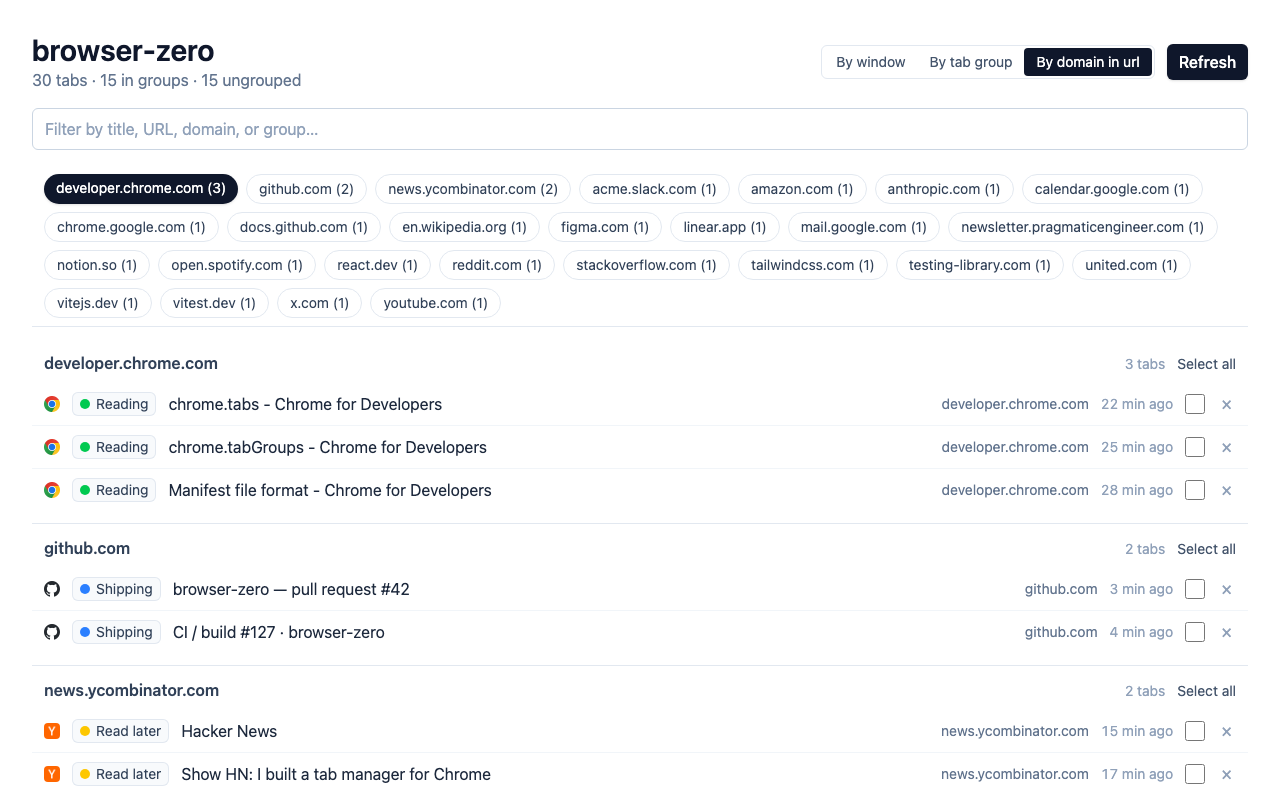
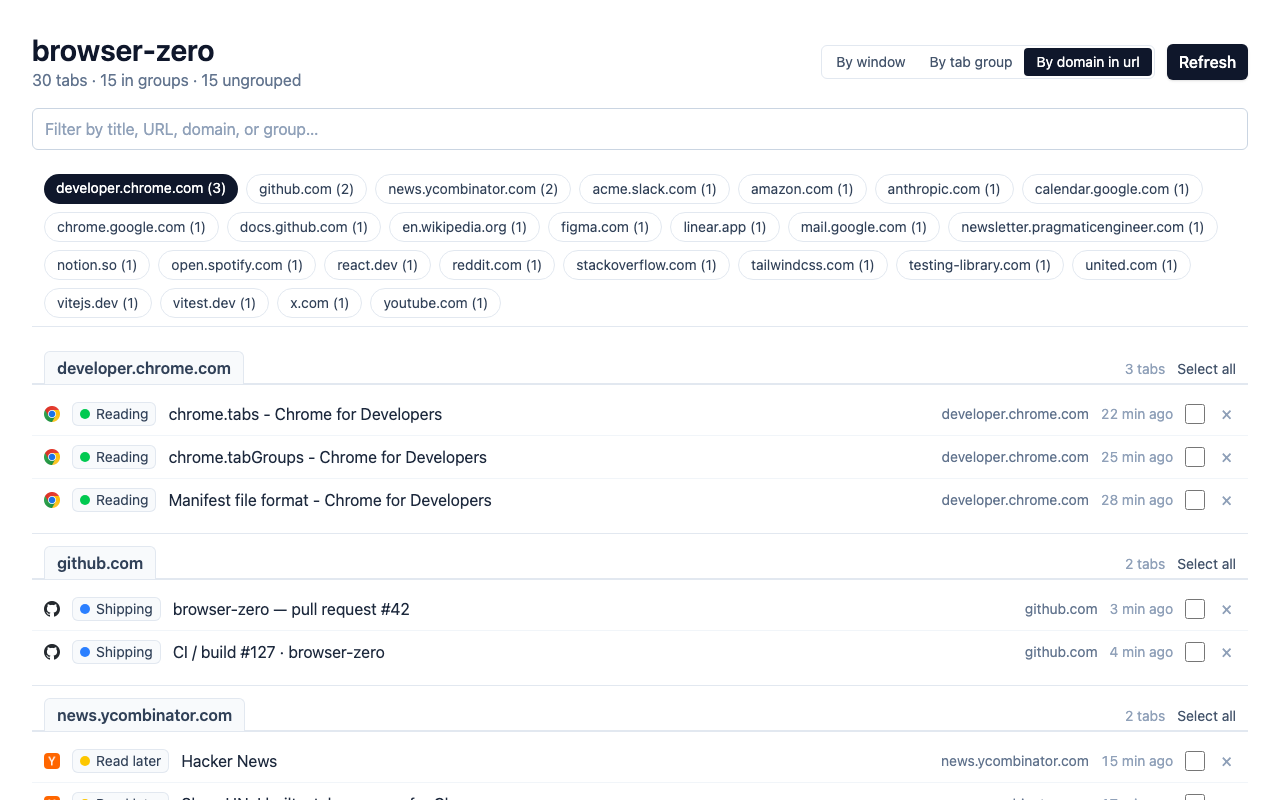
feat(dashboard): style section headers as Chrome browser tabs
Each section's <h2> is now a rounded-top label sitting on a horizontal
shelf line — visually mirroring Chrome's actual browser tab strip. The
tab fill, border, and shelf are all tinted by the section's Chrome
group color so the section visually 'belongs to' its group; the nav
chip, the tab header, the shelf, and the per-row group chip on each
TabRow all share the same color cue.

- src/dashboard/lib/groupColors.ts: add
  sectionHeaderClassesForGroupColor(color) → { tab, shelf } slot helper.
  Concrete class strings for all 9 Chrome group colors plus a slate
  fallback for window/domain views and unknown colors.
- src/dashboard/components/TabList.tsx: section header restructure —
  the <h2> wears 'rounded-t-md border-b-0 px-3 py-1 ...' (the tab) and
  the row containing it wears 'border-b-2 ...' (the shelf). The negative
  '-mb-px' on the h2 ensures its bottom edge merges with the shelf
  rather than peeking through.
- tests-small-unit/dashboard/lib/groupColors.test.ts: new — exercises
  all three helpers (active chip, inactive chip, section header) for
  named colors, null, and unknown. 65 → 72 tests, all green.

Changed region(s): [[0.0312, 0.4375, 0.375, 1.0], [0.7188, 0.5, 0.9688, 1.0], [0.875, 0.4375, 0.9688, 0.4688]]

diff --git a/src/dashboard/components/TabList.tsx b/src/dashboard/components/TabList.tsx
@@ -1,6 +1,7 @@
 import { useEffect, useRef, useState, type DragEvent } from 'react';
 import type { Tab, TabGroupInfo } from '../../shared/lib/types';
 import { groupTabs, type GroupBy, type TabGroup } from '../../shared/lib/grouping';
+import { sectionHeaderClassesForGroupColor } from '../lib/groupColors';
 import { GroupNav } from './GroupNav';
 import { SectionActionPanel } from './SectionActionPanel';
 import { TabRow } from './TabRow';
@@ -140,6 +141,9 @@ export function TabList({
           const hasUnselected = selectedInGroup < group.tabs.length;
           const hasAnySelected = selectedInGroup > 0;
           const isDragOver = dropEnabled && dragOverKey === group.key;
+          const sectionColor =
+            groupBy === 'tabgroup' ? (group.tabs[0]?.group?.color ?? null) : null;
+          const headerClasses = sectionHeaderClassesForGroupColor(sectionColor);
 
           return (
             <section
@@ -171,10 +175,16 @@ export function TabList({
               }
               className={`py-3 transition-colors ${isDragOver ? 'bg-blue-50' : ''}`}
             >
-              <header className="mb-2 space-y-1 px-3">
-                <div className="flex items-baseline justify-between gap-3">
-                  <h2 className="text-base font-semibold text-slate-700">{group.label}</h2>
-                  <div className="flex items-center gap-3 text-sm text-slate-400">
+              <header className="mb-2 space-y-1">
+                <div
+                  className={`flex items-end justify-between gap-3 border-b-2 px-3 ${headerClasses.shelf}`}
+                >
+                  <h2
+                    className={`-mb-px rounded-t-md border-b-0 px-3 py-1 text-base font-semibold ${headerClasses.tab}`}
+                  >
+                    {group.label}
+                  </h2>
+                  <div className="flex items-center gap-3 pb-1 text-sm text-slate-400">
                     <span>
                       {group.tabs.length} tab{group.tabs.length === 1 ? '' : 's'}
                     </span>
@@ -202,17 +212,19 @@ export function TabList({
                     )}
                   </div>
                 </div>
-                <SectionActionPanel
-                  groupLabel={group.label}
-                  groupIds={groupIds}
-                  selectedIds={selectedIdsInGroup}
-                  allowGrouping={allowGrouping}
-                  existingGroups={existingGroups}
-                  onClearGroup={onClearGroup}
-                  onDeleteIds={onDeleteIds}
-                  onCreateGroup={onCreateGroup}
-                  onAssignManyToGroup={onAssignManyToGroup}
-                />
+                <div className="px-3">
+                  <SectionActionPanel
+                    groupLabel={group.label}
+                    groupIds={groupIds}
+                    selectedIds={selectedIdsInGroup}
+                    allowGrouping={allowGrouping}
+                    existingGroups={existingGroups}
+                    onClearGroup={onClearGroup}
+                    onDeleteIds={onDeleteIds}
+                    onCreateGroup={onCreateGroup}
+                    onAssignManyToGroup={onAssignManyToGroup}
+                  />
+                </div>
               </header>
               <ul className="divide-y divide-slate-100">
                 {group.tabs.map((tab) => (

diff --git a/tests-small-unit/dashboard/lib/groupColors.test.ts b/tests-small-unit/dashboard/lib/groupColors.test.ts
@@ -1,0 +1,60 @@
+import { describe, it, expect } from 'vitest';
+import {
+  activeChipClassForGroupColor,
+  inactiveChipClassForGroupColor,
+  sectionHeaderClassesForGroupColor,
+} from '../../../src/dashboard/lib/groupColors';
+
+describe('activeChipClassForGroupColor', () => {
+  it('returns a vibrant filled chip class for a known Chrome group color', () => {
+    expect(activeChipClassForGroupColor('blue')).toContain('bg-blue-600');
+    expect(activeChipClassForGroupColor('green')).toContain('bg-green-600');
+    expect(activeChipClassForGroupColor('yellow')).toContain('text-slate-900');
+  });
+
+  it('falls back to slate-900 fill for null and unknown colors', () => {
+    expect(activeChipClassForGroupColor(null)).toContain('bg-slate-900');
+    expect(activeChipClassForGroupColor('mauve')).toContain('bg-slate-900');
+  });
+});
+
+describe('inactiveChipClassForGroupColor', () => {
+  it('returns a tinted-outline chip class for a known Chrome group color', () => {
+    expect(inactiveChipClassForGroupColor('orange')).toContain('bg-orange-50');
+    expect(inactiveChipClassForGroupColor('orange')).toContain('text-orange-800');
+    expect(inactiveChipClassForGroupColor('orange')).toContain('border-orange-200');
+  });
+
+  it('falls back to slate outline for null and unknown colors', () => {
+    expect(inactiveChipClassForGroupColor(null)).toContain('bg-white');
+    expect(inactiveChipClassForGroupColor(null)).toContain('text-slate-700');
+    expect(inactiveChipClassForGroupColor('mauve')).toContain('text-slate-700');
+  });
+});
+
+describe('sectionHeaderClassesForGroupColor', () => {
+  it('returns tab + shelf classes matching the group color', () => {
+    const blue = sectionHeaderClassesForGroupColor('blue');
+    expect(blue.tab).toContain('bg-blue-100');
+    expect(blue.tab).toContain('text-blue-900');
+    expect(blue.tab).toContain('border-blue-300');
+    expect(blue.shelf).toContain('border-blue-300');
+  });
+
+  it('uses a yellow-tinted tab with a saturated shelf for the yellow Chrome group', () => {
+    const yellow = sectionHeaderClassesForGroupColor('yellow');
+    expect(yellow.tab).toContain('bg-yellow-100');
+    expect(yellow.tab).toContain('text-yellow-900');
+    expect(yellow.shelf).toContain('border-yellow-400');
+  });
+
+  it('falls back to slate-tinted tab + shelf for null and unknown colors', () => {
+    const slate = sectionHeaderClassesForGroupColor(null);
+    expect(slate.tab).toContain('bg-slate-50');
+    expect(slate.tab).toContain('text-slate-700');
+    expect(slate.shelf).toContain('border-slate-200');
+
+    const unknown = sectionHeaderClassesForGroupColor('mauve');
+    expect(unknown.tab).toContain('bg-slate-50');
+  });
+});

diff --git a/src/dashboard/lib/groupColors.ts b/src/dashboard/lib/groupColors.ts
@@ -59,3 +59,65 @@ export function inactiveChipClassForGroupColor(color: string | null): string {
   if (color === null) return DEFAULT_INACTIVE_CHIP_CLASS;
   return INACTIVE_CHIP_CLASS_BY_COLOR[color] ?? DEFAULT_INACTIVE_CHIP_CLASS;
 }
+
+// Chrome-tab-shaped section header styling. Two slots:
+// - `tab` colors the rounded-top label that visually represents the
+//   browser-tab shape (light tint background, tinted border on three
+//   sides, dark colored text).
+// - `shelf` colors the horizontal line the tab "sits on" — the
+//   continuous strip running the section's width directly under the tab.
+// Together the two slots produce a Chrome-style tab + bar.
+
+interface SectionHeaderClasses {
+  readonly tab: string;
+  readonly shelf: string;
+}
+
+const SECTION_HEADER_CLASSES_BY_COLOR: Record<string, SectionHeaderClasses> = {
+  grey: {
+    tab: 'border border-slate-300 bg-slate-100 text-slate-800',
+    shelf: 'border-slate-300',
+  },
+  blue: {
+    tab: 'border border-blue-300 bg-blue-100 text-blue-900',
+    shelf: 'border-blue-300',
+  },
+  red: {
+    tab: 'border border-red-300 bg-red-100 text-red-900',
+    shelf: 'border-red-300',
+  },
+  yellow: {
+    tab: 'border border-yellow-400 bg-yellow-100 text-yellow-900',
+    shelf: 'border-yellow-400',
+  },
+  green: {
+    tab: 'border border-green-300 bg-green-100 text-green-900',
+    shelf: 'border-green-300',
+  },
+  pink: {
+    tab: 'border border-pink-300 bg-pink-100 text-pink-900',
+    shelf: 'border-pink-300',
+  },
+  purple: {
+    tab: 'border border-purple-300 bg-purple-100 text-purple-900',
+    shelf: 'border-purple-300',
+  },
+  cyan: {
+    tab: 'border border-cyan-300 bg-cyan-100 text-cyan-900',
+    shelf: 'border-cyan-300',
+  },
+  orange: {
+    tab: 'border border-orange-300 bg-orange-100 text-orange-900',
+    shelf: 'border-orange-300',
+  },
+};
+
+const DEFAULT_SECTION_HEADER_CLASSES: SectionHeaderClasses = {
+  tab: 'border border-slate-200 bg-slate-50 text-slate-700',
+  shelf: 'border-slate-200',
+};
+
+export function sectionHeaderClassesForGroupColor(color: string | null): SectionHeaderClasses {
+  if (color === null) return DEFAULT_SECTION_HEADER_CLASSES;
+  return SECTION_HEADER_CLASSES_BY_COLOR[color] ?? DEFAULT_SECTION_HEADER_CLASSES;
+}
